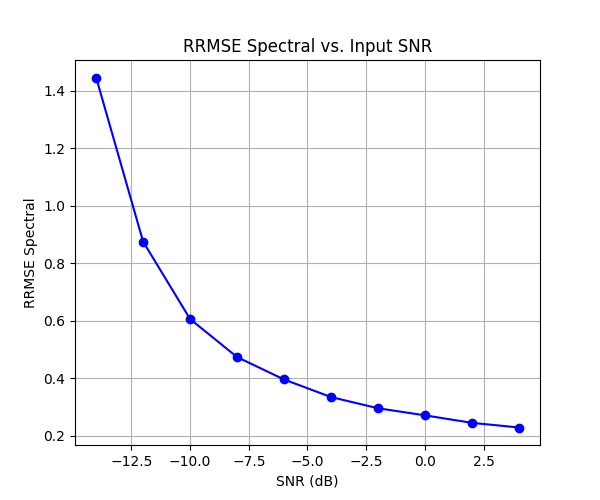
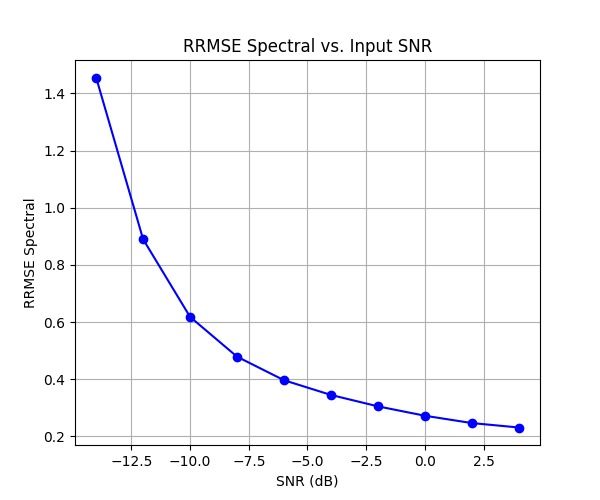
Updated data generation to incorporate EOG and EMG artifacts at once

diff --git a/comparisions/wiener_filter.py b/comparisions/wiener_filter.py
@@ -1,9 +1,13 @@
-import numpy as np
-import scipy.signal as signal
-import matplotlib.pyplot as plt
-from scipy.signal import welch
-from os.path import join
+import numpy as np # type:ignore
+import scipy.signal as signal # type:ignore
+import matplotlib.pyplot as plt # type:ignore
+from scipy.signal import welch # type:ignore
+from os.path import join 
 import os
+
+import sys
+sys.path.append(os.path.abspath(os.path.join(os.path.dirname(__file__), '..')))
+from eeg_data_generator import prepare_eeg_data, EEGNoiseDataset
 
 # --- Variables from variables.py ---
 # This section contains the relevant variables copied from your project's variables.py.
@@ -137,7 +141,7 @@ def create_and_save_plot(x, y, xlabel, ylabel, title, filename):
         y (list or np.ndarray): The y-axis data.
         xlabel (str): The label for the x-axis.
         ylabel (str): The label for the y-axis.
-        title (str): The title of the plot.
+        title (str): The title of the plot.evaluation_plots/CC_VS_SNR.png
         filename (str): The name of the file to save (e.g., 'CC_VS_SNR.png').
     """
     plt.figure(figsize=(10, 6))
@@ -226,63 +230,109 @@ def create_and_save_band_power_plots(band_power_data, bands, title, filename_pre
 # --- Main Logic for Generating Plots ---
 if __name__ == "__main__":
     print(f"Generating evaluation plots and saving to '{EVAL_PLOTS_DIR}'...")
-    
-    # A single, representative clean signal for the simulation
-    # In a real scenario, you'd load a dataset of clean epochs.
-    # Here, we generate a synthetic EEG-like signal for demonstration.
-    time_len_samples = SAMPLING_RATE * 5 # 5 seconds
-    t = np.linspace(0, 5, time_len_samples, endpoint=False)
-    clean_signal = np.sum([np.sin(2 * np.pi * f * t) for f in [4, 8, 12, 20, 40]], axis=0)
-    
-    # Lists to store metrics for plotting
+
+    # --- Load data using eeg_data_generator.py ---
+    # Update these paths to the correct absolute or relative location of your data files
+    DATA_DIR = os.path.abspath(os.path.join(os.path.dirname(__file__), '..', 'dataset'))
+    EEG_FILE = os.path.join(DATA_DIR, "EEG_all_epochs.npy")
+    EOG_FILE = os.path.join(DATA_DIR, "EOG_all_epochs.npy")
+    EMG_FILE = os.path.join(DATA_DIR, "EMG_all_epochs.npy")
+    SNR_RANGE_DB = [-14, 6]  # Min/max SNR for dataset, not used directly here
+
+    # Set EVAL_PLOTS_DIR to be inside the comparisions folder
+    EVAL_PLOTS_DIR = os.path.join(os.path.dirname(__file__), "comparisions/evaluation_plots")
+
+    # Load and normalize data
+    clean_eeg_np, eog_noise_np, emg_noise_np = prepare_eeg_data(EEG_FILE, EOG_FILE, EMG_FILE, SNR_RANGE_DB)
+
+    # Create dataset for benchmarking (one noisy variant per clean epoch per SNR)
+    # We'll loop over SNR_RANGE_DB_EVAL and for each SNR, generate noisy-clean pairs
+    time_len_samples = clean_eeg_np.shape[1]
     cc_scores = []
     rrmse_temporal_scores = []
     band_power_data = {band: [] for band in EEG_BANDS.keys()}
-    
-    # --- The Main Evaluation Loop ---
+
+    # For PSD plot at the end
+    example_noisy_signal = None
+    example_denoised_signal = None
+    example_clean_signal = None
+
     for snr_db in SNR_RANGE_DB_EVAL:
-        # Convert SNR from dB to linear scale
-        snr_linear = 10**(snr_db / 10)
-        
-        # Calculate required noise power
-        clean_power = np.mean(clean_signal**2)
-        noise_power = clean_power / snr_linear
-        
-        # Generate noise with the calculated power
-        noise = np.random.randn(len(clean_signal)) * np.sqrt(noise_power)
-        noisy_signal = clean_signal + noise
+        # For each SNR, generate one noisy-clean pair per clean epoch, then average metrics
+        cc_list = []
+        rrmse_list = []
+        band_power_bandwise = {band: [] for band in EEG_BANDS.keys()}
 
-        # Apply the Wiener filter
-        denoised_signal = wiener_filter_scipy(noisy_signal, mysize=None)
-        
-        # Calculate metrics for the current SNR level
-        cc = calculate_cc(denoised_signal, clean_signal)
-        rrmse_temporal = calculate_rrmse(denoised_signal, clean_signal)
-        
-        cc_scores.append(cc)
-        rrmse_temporal_scores.append(rrmse_temporal)
+        for i in range(clean_eeg_np.shape[0]):
+            clean_epoch = clean_eeg_np[i]
+            # Randomly pick a noise type and epoch
+            noise_type = np.random.choice(['eog', 'emg', 'both'])
+            if noise_type == 'eog' and eog_noise_np is not None:
+                noise_epoch = eog_noise_np[np.random.randint(len(eog_noise_np))]
+            elif noise_type == 'emg' and emg_noise_np is not None:
+                noise_epoch = emg_noise_np[np.random.randint(len(emg_noise_np))]
+            else:  # both or fallback
+                eog = eog_noise_np[np.random.randint(len(eog_noise_np))] if eog_noise_np is not None else np.zeros_like(clean_epoch)
+                emg = emg_noise_np[np.random.randint(len(emg_noise_np))] if emg_noise_np is not None else np.zeros_like(clean_epoch)
+                noise_epoch = eog + emg
 
-        # Calculate and store band power ratios
-        psd_freqs, psd_noisy = calculate_psd(noisy_signal, SAMPLING_RATE)
-        _, psd_denoised = calculate_psd(denoised_signal, SAMPLING_RATE)
-        _, psd_clean = calculate_psd(clean_signal, SAMPLING_RATE)
+            # Ensure noise is correct length
+            if len(noise_epoch) != time_len_samples:
+                if len(noise_epoch) > time_len_samples:
+                    noise_epoch = noise_epoch[:time_len_samples]
+                else:
+                    noise_epoch = np.concatenate((noise_epoch, np.zeros(time_len_samples - len(noise_epoch))))
 
+            # Add noise at the current SNR
+            clean_power = np.mean(clean_epoch**2)
+            noise_power = np.mean(noise_epoch**2)
+            if clean_power == 0 or noise_power == 0:
+                continue  # skip degenerate cases
+            snr_linear = 10**(snr_db / 10)
+            alpha = np.sqrt(clean_power / (snr_linear * noise_power))
+            noisy_signal = clean_epoch + alpha * noise_epoch
+
+            # Denoise
+            denoised_signal = wiener_filter_scipy(noisy_signal, mysize=None)
+
+            # Metrics
+            cc = calculate_cc(denoised_signal, clean_epoch)
+            rrmse_temporal = calculate_rrmse(denoised_signal, clean_epoch)
+            cc_list.append(cc)
+            rrmse_list.append(rrmse_temporal)
+
+            # Band power ratios
+            psd_freqs, psd_noisy = calculate_psd(noisy_signal, SAMPLING_RATE)
+            _, psd_denoised = calculate_psd(denoised_signal, SAMPLING_RATE)
+            _, psd_clean = calculate_psd(clean_epoch, SAMPLING_RATE)
+            for band in EEG_BANDS.keys():
+                noisy_power = calculate_band_power(psd_freqs, psd_noisy, band)
+                denoised_power = calculate_band_power(psd_freqs, psd_denoised, band)
+                clean_power_band = calculate_band_power(psd_freqs, psd_clean, band)
+                noisy_ratio = noisy_power / clean_power_band if clean_power_band > 0 else 0
+                denoised_ratio = denoised_power / clean_power_band if clean_power_band > 0 else 0
+                band_power_bandwise[band].append((noisy_ratio, denoised_ratio))
+
+            # Save example for PSD plot (use last SNR)
+            if snr_db == SNR_RANGE_DB_EVAL[-1] and i == 0:
+                example_noisy_signal = noisy_signal
+                example_denoised_signal = denoised_signal
+                example_clean_signal = clean_epoch
+
+        # Average metrics for this SNR
+        cc_scores.append(np.mean(cc_list))
+        rrmse_temporal_scores.append(np.mean(rrmse_list))
         for band in EEG_BANDS.keys():
-            noisy_power = calculate_band_power(psd_freqs, psd_noisy, band)
-            denoised_power = calculate_band_power(psd_freqs, psd_denoised, band)
-            clean_power_band = calculate_band_power(psd_freqs, psd_clean, band)
-            
-            # Avoid division by zero
-            noisy_ratio = noisy_power / clean_power_band if clean_power_band > 0 else 0
-            denoised_ratio = denoised_power / clean_power_band if clean_power_band > 0 else 0
-            
-            band_power_data[band].append((noisy_ratio, denoised_ratio))
-        
-        print(f"SNR: {snr_db} dB | CC: {cc:.4f} | RRMSE: {rrmse_temporal:.4f}")
+            noisy_ratios = [x[0] for x in band_power_bandwise[band]]
+            denoised_ratios = [x[1] for x in band_power_bandwise[band]]
+            band_power_data[band].append((
+                np.mean(noisy_ratios) if noisy_ratios else 0,
+                np.mean(denoised_ratios) if denoised_ratios else 0
+            ))
+
+        print(f"SNR: {snr_db} dB | CC: {cc_scores[-1]:.4f} | RRMSE: {rrmse_temporal_scores[-1]:.4f}")
 
     # --- Create and Save All Plots ---
-    
-    # CC vs. SNR plot
     create_and_save_plot(
         SNR_RANGE_DB_EVAL, 
         cc_scores, 
@@ -291,8 +341,6 @@ if __name__ == "__main__":
         'Correlation Coefficient vs. SNR',
         'CC_VS_SNR.png'
     )
-    
-    # RRMSE vs. SNR plot
     create_and_save_plot(
         SNR_RANGE_DB_EVAL, 
         rrmse_temporal_scores, 
@@ -301,26 +349,24 @@ if __name__ == "__main__":
         'RRMSE Temporal vs. SNR',
         'RRMSE_Temporal_vs_SNR.png'
     )
-    
-    # Create individual band power ratio plots
     create_and_save_band_power_plots(
         band_power_data, 
         list(EEG_BANDS.keys()), 
         'Overall Band Power Ratio vs. SNR',
         'overall'
     )
-    
-    # Create a PSD comparison plot for a specific SNR level (e.g., 0 dB)
-    psd_signals = {
-        'Original Clean Signal': clean_signal,
-        'Noisy Signal': noisy_signal,
-        'Denoised Signal (Wiener)': denoised_signal,
-    }
-    create_and_save_psd_plot(
-        psd_signals, 
-        SAMPLING_RATE, 
-        f'Power Spectral Density Comparison (SNR = {SNR_RANGE_DB_EVAL[-1]} dB)', # Use the highest SNR for a clear plot
-        'PSD_comparison_example.png'
-    )
+    # PSD comparison plot for the highest SNR
+    if example_clean_signal is not None:
+        psd_signals = {
+            'Original Clean Signal': example_clean_signal,
+            'Noisy Signal': example_noisy_signal,
+            'Denoised Signal (Wiener)': example_denoised_signal,
+        }
+        create_and_save_psd_plot(
+            psd_signals, 
+            SAMPLING_RATE, 
+            f'Power Spectral Density Comparison (SNR = {SNR_RANGE_DB_EVAL[-1]} dB)',
+            'PSD_comparison_example.png'
+        )
 
     print("\nAll evaluation plots have been generated and saved to the 'evaluation_plots' folder.")

diff --git a/eeg_data_generator.py b/eeg_data_generator.py
@@ -79,29 +79,50 @@ class EEGNoiseDataset(Dataset):
         # Select the clean EEG epoch for this index
         clean_epoch = self.clean_eeg[clean_idx]
 
-        # Randomly choose a noise type (EOG or EMG) for this pair
-        noise_type = np.random.choice(['eog', 'emg'])
+        # Randomly choose noise type: 'eog', 'emg', or 'both'
+        noise_type = np.random.choice(['eog', 'emg', 'both'])
 
-        # Select a random noise epoch from the chosen noise type
+        # Select noise(s) accordingly
         if noise_type == 'eog':
             noise_pool = self.eog_noise
-        else: # 'emg'
+            if len(noise_pool) == 0:
+                noise_epoch = np.zeros_like(clean_epoch)
+            else:
+                noise_epoch = noise_pool[np.random.randint(len(noise_pool))]
+        elif noise_type == 'emg':
             noise_pool = self.emg_noise
-
-        # Ensure there's noise available to sample
-        if len(noise_pool) == 0:
-            # Fallback if no noise of a chosen type is available
-            # In a robust system, you might log this or ensure both types are always present
-            print(f"Warning: No {noise_type} noise epochs available. Using zeros for noise.")
-            noise_epoch = np.zeros_like(clean_epoch) # Use a zero array as noise
-        else:
-            noise_epoch = noise_pool[np.random.randint(len(noise_pool))]
+            if len(noise_pool) == 0:
+                noise_epoch = np.zeros_like(clean_epoch)
+            else:
+                noise_epoch = noise_pool[np.random.randint(len(noise_pool))]
+        else:  # 'both'
+            # Combine EOG and EMG artifacts
+            if len(self.eog_noise) == 0 and len(self.emg_noise) == 0:
+                noise_epoch = np.zeros_like(clean_epoch)
+            else:
+                # If one pool is empty, just use the other
+                if len(self.eog_noise) == 0:
+                    noise_epoch = self.emg_noise[np.random.randint(len(self.emg_noise))]
+                elif len(self.emg_noise) == 0:
+                    noise_epoch = self.eog_noise[np.random.randint(len(self.eog_noise))]
+                else:
+                    eog_epoch = self.eog_noise[np.random.randint(len(self.eog_noise))]
+                    emg_epoch = self.emg_noise[np.random.randint(len(self.emg_noise))]
+                    # Ensure both are the correct length
+                    if len(eog_epoch) != self.num_samples_per_epoch:
+                        if len(eog_epoch) > self.num_samples_per_epoch:
+                            eog_epoch = eog_epoch[:self.num_samples_per_epoch]
+                        else:
+                            eog_epoch = np.concatenate((eog_epoch, np.zeros(self.num_samples_per_epoch - len(eog_epoch))))
+                    if len(emg_epoch) != self.num_samples_per_epoch:
+                        if len(emg_epoch) > self.num_samples_per_epoch:
+                            emg_epoch = emg_epoch[:self.num_samples_per_epoch]
+                        else:
+                            emg_epoch = np.concatenate((emg_epoch, np.zeros(self.num_samples_per_epoch - len(emg_epoch))))
+                    noise_epoch = eog_epoch + emg_epoch
 
         # Ensure the selected noise epoch has the same length as the clean epoch.
-        # This is crucial for element-wise addition.
         if len(noise_epoch) != self.num_samples_per_epoch:
-            # Simple truncation or padding to match the length.
-            # For real-world applications, consider more sophisticated resampling/padding.
             if len(noise_epoch) > self.num_samples_per_epoch:
                 noise_epoch = noise_epoch[:self.num_samples_per_epoch]
             else:
